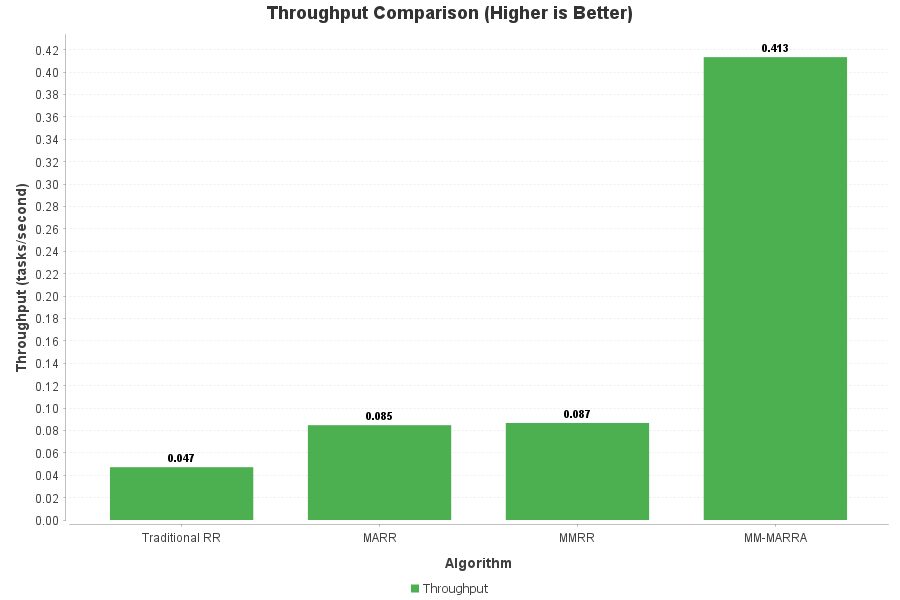
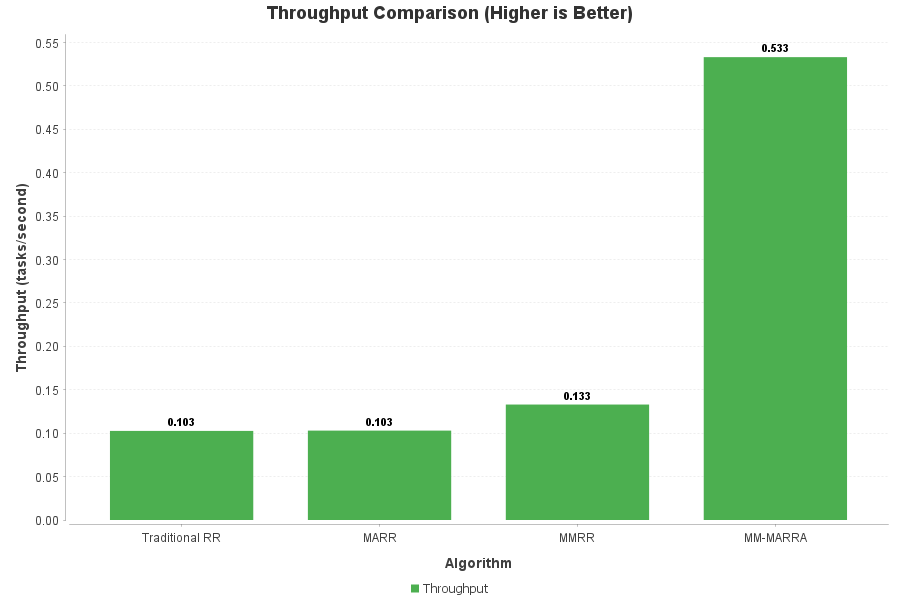
:)
:)

diff --git a/src/main/java/com/thesis/Main.java b/src/main/java/com/thesis/Main.java
@@ -20,9 +20,9 @@ import java.util.List;
  */
 public class Main {
 
-    private static final int NUMBER_OF_VMS = 15;
-    private static final int NUMBER_OF_HOSTS = 3;
-    private static final int NUMBER_OF_CLOUDLETS = 250;
+    private static final int NUMBER_OF_VMS = 20;
+    private static final int NUMBER_OF_HOSTS = 30;
+    private static final int NUMBER_OF_CLOUDLETS = 1000;
 
     public static void main(String[] args) {
         System.out.println("\n" + "=".repeat(120));

diff --git a/src/main/java/com/thesis/utils/ChartGenerator.java b/src/main/java/com/thesis/utils/ChartGenerator.java
@@ -23,7 +23,7 @@ import java.util.List;
  * Generates PNG chart images for thesis visualization
  * Uses JFreeChart library for professional-quality bar charts
  *
- * Required Maven dependency:
+ * Maven used:
  * <dependency>
  *     <groupId>org.jfree</groupId>
  *     <artifactId>jfreechart</artifactId>
